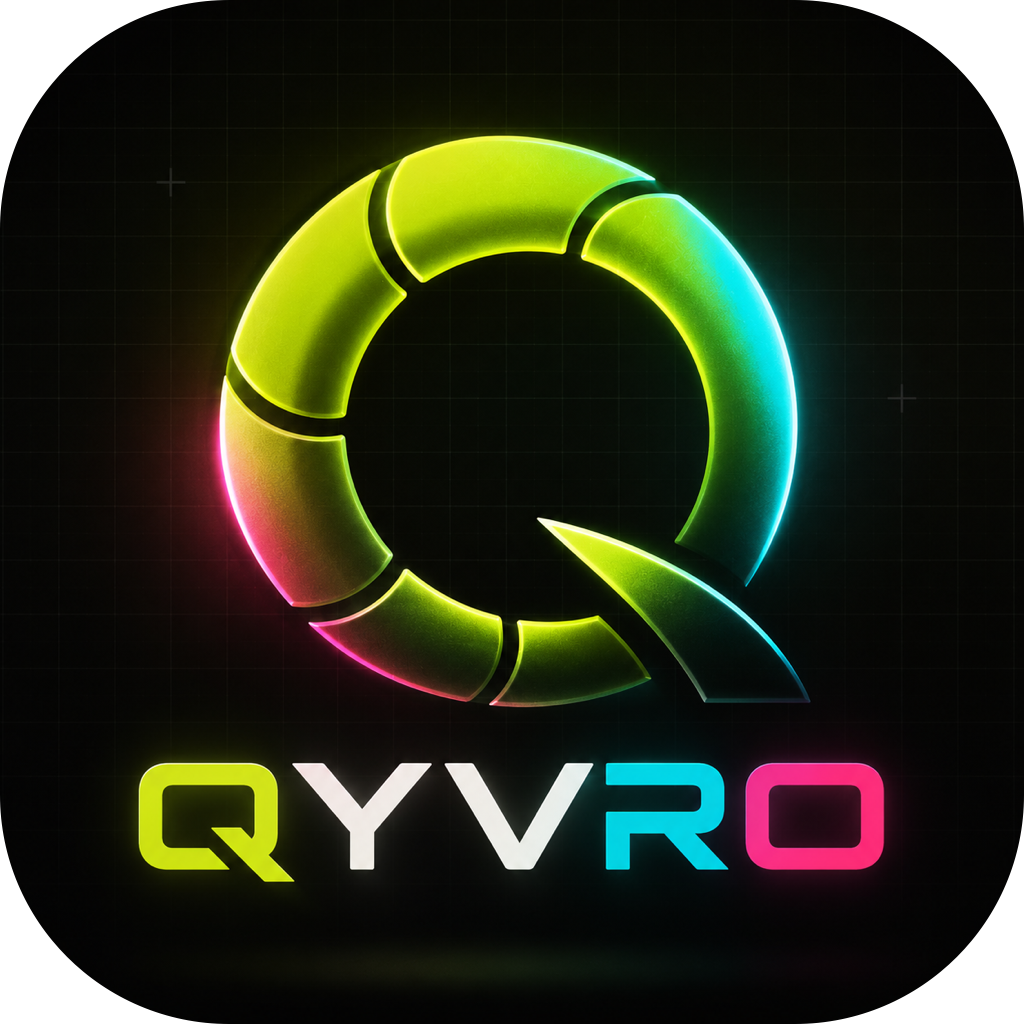
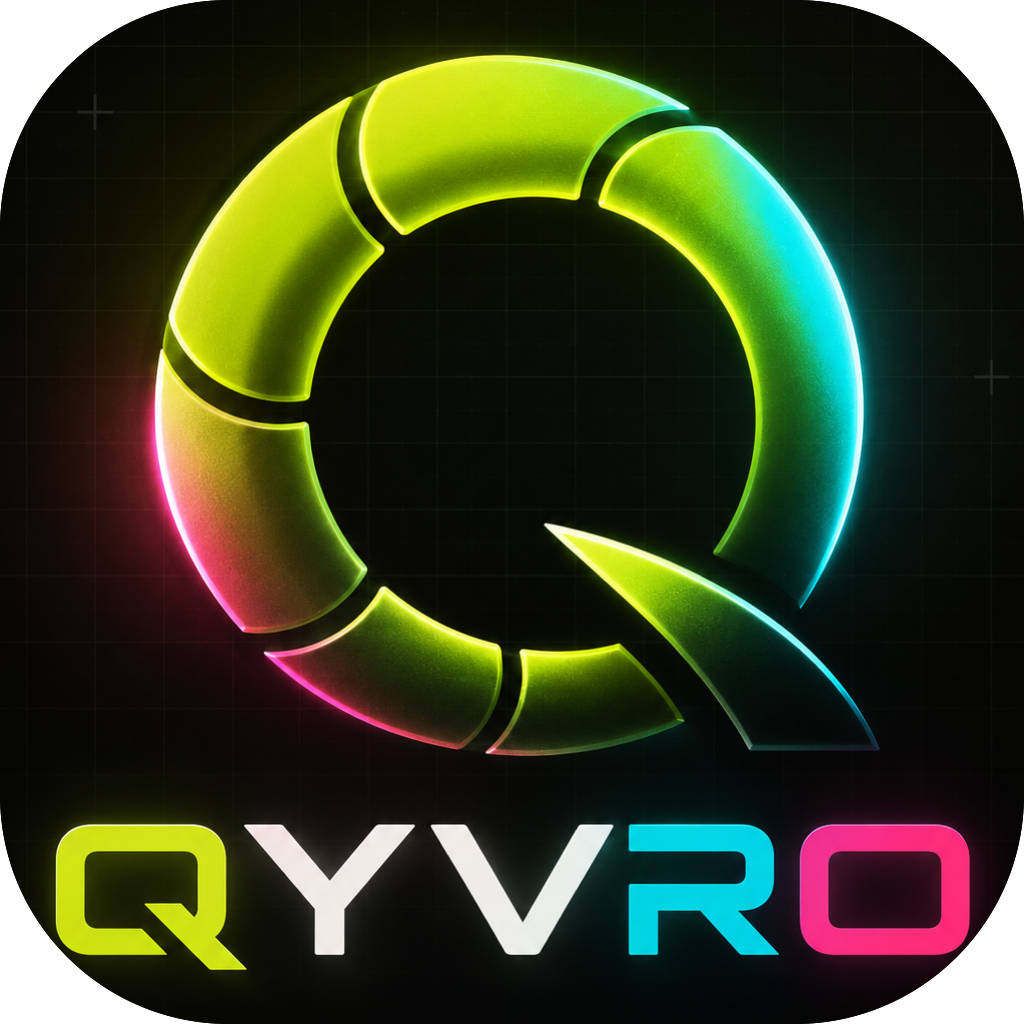
Панель предпросмотра прозрачная и крупнее, иконка с узкими полями
Панель была плотной серой плитой поверх окна: материал .sidebar с
непрозрачностью 0.90. Теперь та же подложка, что у левой панели —
настоящее размытие macOS сквозь окно, тон из темы и полупрозрачность,
так что панель светится фоном проводника.

Кегли подняты по всей панели: заголовок 12 → 13.5, имя файла 13 → 15,
подписи полей 9.5 → 11.5, значения 11 → 12.5. Прежние читались с трудом.

Иконка заменена на вариант с обрезанными полями: рисунок занимает 89%
плашки вместо 72%.

diff --git a/Sources/FilePreviewSidebar.swift b/Sources/FilePreviewSidebar.swift
@@ -32,8 +32,10 @@ final class FilePreviewSidebar: NSVisualEffectView {
 
     override init(frame frameRect: NSRect) {
         super.init(frame: frameRect)
-        material = .sidebar
-        blendingMode = .withinWindow
+        // Та же подложка, что у левой панели: настоящее размытие macOS
+        // сквозь окно, а не плотная серая заливка поверх него.
+        material = .underWindowBackground
+        blendingMode = .behindWindow
         state = .active
         wantsLayer = true
         translatesAutoresizingMaskIntoConstraints = false
@@ -92,7 +94,10 @@ final class FilePreviewSidebar: NSVisualEffectView {
     }
 
     private func buildUI() {
-        heading.font = .systemFont(ofSize: 14.5, weight: .semibold)
+        // Заголовок панели набран как рубрики в проводнике: тот же шрифт,
+        // капс и разрядка. На системном он выбивался из интерфейса.
+        heading.font = FPStyle.headingFont(ofSize: 13.5, weight: .semibold)
+        heading.stringValue = "ПРЕДПРОСМОТР"
         heading.translatesAutoresizingMaskIntoConstraints = false
 
         closeButton.isBordered = false
@@ -120,7 +125,8 @@ final class FilePreviewSidebar: NSVisualEffectView {
 
         previewContainer.translatesAutoresizingMaskIntoConstraints = false
         previewContainer.wantsLayer = true
-        previewContainer.layer?.cornerRadius = 14
+        previewContainer.layer?.cornerRadius = FPStyle.isCyberEditorial ? 6 : 12
+        previewContainer.layer?.borderWidth = 1
         previewContainer.layer?.borderWidth = 0.5
         previewContainer.layer?.masksToBounds = true
 
@@ -147,17 +153,18 @@ final class FilePreviewSidebar: NSVisualEffectView {
             )
         }
         emptyLabel.alignment = .center
-        emptyLabel.font = .systemFont(ofSize: 12.5, weight: .medium)
+        emptyLabel.font = FPStyle.headingFont(ofSize: 12.5, weight: .semibold)
+        emptyLabel.stringValue = "ВЫБЕРИТЕ ФАЙЛ ИЛИ ПАПКУ"
         emptyLabel.translatesAutoresizingMaskIntoConstraints = false
 
         nameLabel.alignment = .center
-        nameLabel.font = .systemFont(ofSize: 14, weight: .semibold)
+        nameLabel.font = FPStyle.headingFont(ofSize: 15, weight: .semibold)
         nameLabel.maximumNumberOfLines = 3
         nameLabel.lineBreakMode = .byTruncatingMiddle
         nameLabel.translatesAutoresizingMaskIntoConstraints = false
 
         summaryLabel.alignment = .center
-        summaryLabel.font = .systemFont(ofSize: 11.5, weight: .medium)
+        summaryLabel.font = FPStyle.headingFont(ofSize: 11.5, weight: .semibold)
         summaryLabel.lineBreakMode = .byTruncatingTail
         summaryLabel.translatesAutoresizingMaskIntoConstraints = false
 
@@ -167,7 +174,7 @@ final class FilePreviewSidebar: NSVisualEffectView {
         detailsStack.translatesAutoresizingMaskIntoConstraints = false
 
         copyPathButton.title = "Скопировать путь"
-        copyPathButton.font = .systemFont(ofSize: 11.5, weight: .semibold)
+        copyPathButton.font = FPStyle.headingFont(ofSize: 12.5, weight: .semibold)
         copyPathButton.isBordered = false
         copyPathButton.bezelStyle = .inline
         copyPathButton.target = self
@@ -359,12 +366,14 @@ final class FilePreviewSidebar: NSVisualEffectView {
 
     private func addDetail(title: String, value: String) {
         let titleLabel = NSTextField(labelWithString: title)
-        titleLabel.font = .systemFont(ofSize: 11, weight: .medium)
+        titleLabel.font = FPStyle.headingFont(ofSize: 11.5, weight: .semibold)
         titleLabel.setContentCompressionResistancePriority(.required, for: .horizontal)
         titleLabel.widthAnchor.constraint(equalToConstant: 75).isActive = true
 
         let valueLabel = NSTextField(wrappingLabelWithString: value)
-        valueLabel.font = .systemFont(ofSize: 11.5, weight: .regular)
+        // Цифры моноширинные: размеры и даты выстраиваются в колонку и не
+        // прыгают при переключении файлов.
+        valueLabel.font = .monospacedDigitSystemFont(ofSize: 12.5, weight: .medium)
         valueLabel.maximumNumberOfLines = title == "Путь" ? 2 : 1
         valueLabel.lineBreakMode = .byTruncatingMiddle
         valueLabel.setContentHuggingPriority(.defaultLow, for: .horizontal)
@@ -426,20 +435,30 @@ final class FilePreviewSidebar: NSVisualEffectView {
     }
 
     private func applyTheme() {
-        layer?.backgroundColor = FPStyle.sidebar.withAlphaComponent(0.90).cgColor
+        // Тон берётся из темы и остаётся полупрозрачным — панель должна
+        // светиться фоном проводника, а не выглядеть серой плитой поверх.
+        layer?.backgroundColor = FPStyle.sidebar
+            .withAlphaComponent(min(0.62, FPStyle.sidebar.alphaComponent + 0.18)).cgColor
         layer?.borderColor = FPStyle.stroke.cgColor
         layer?.borderWidth = 0.5
         heading.textColor = FPStyle.text
         closeButton.contentTintColor = FPStyle.dimText
         closeButton.layer?.backgroundColor = FPStyle.control.cgColor
-        previewContainer.layer?.backgroundColor = FPStyle.controlStrong.cgColor
+        previewContainer.layer?.backgroundColor = FPStyle.pane
+            .withAlphaComponent(min(1, FPStyle.pane.alphaComponent + 0.10)).cgColor
+        previewContainer.layer?.borderColor = FPStyle.stroke.withAlphaComponent(0.7).cgColor
         previewContainer.layer?.borderColor = FPStyle.stroke.cgColor
         nameLabel.textColor = FPStyle.text
         summaryLabel.textColor = FPStyle.orange
+        heading.textColor = FPStyle.text
+        emptyLabel.textColor = FPStyle.dimText.withAlphaComponent(0.75)
         emptyIcon.contentTintColor = FPStyle.dimText
         emptyLabel.textColor = FPStyle.dimText
         copyPathButton.contentTintColor = FPStyle.accent
         copyPathButton.layer?.backgroundColor = FPStyle.control.cgColor
+        copyPathButton.layer?.borderColor = FPStyle.stroke.withAlphaComponent(0.8).cgColor
+        copyPathButton.layer?.borderWidth = 1
+        copyPathButton.contentTintColor = FPStyle.accent
         detailsStack.arrangedSubviews.forEach { row in
             guard let fields = (row as? NSStackView)?.arrangedSubviews
                 .compactMap({ $0 as? NSTextField }),
